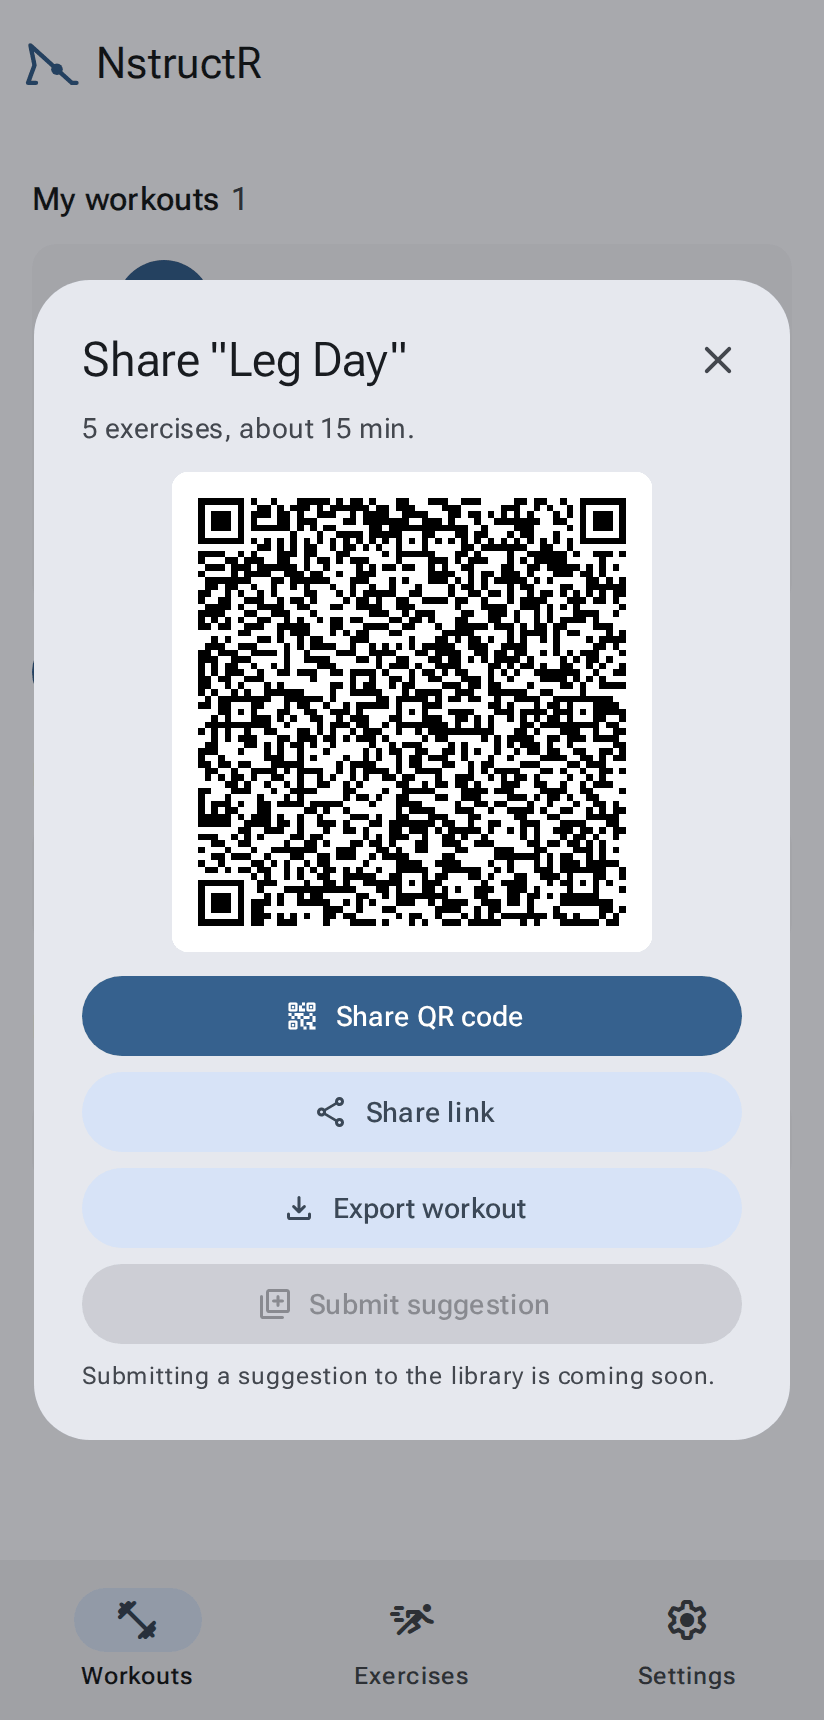
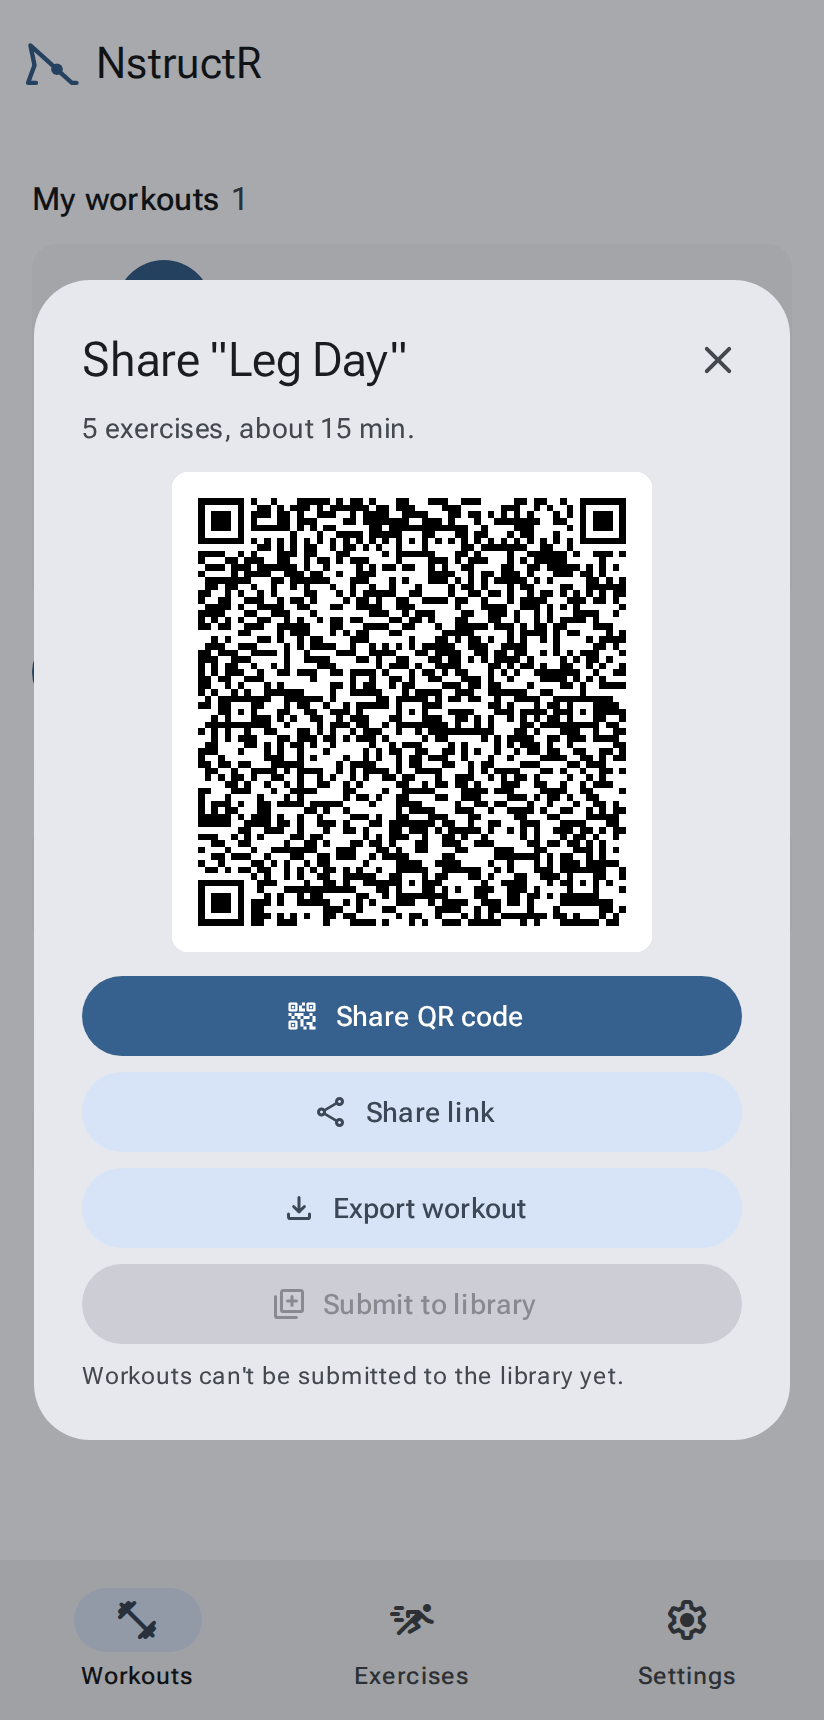
Submissions: docs, wiki, screenshots, audit; no name another library exercise has
- the app doesn't offer a name that belongs to another library exercise (the Action rejects it too)
- HANDOFF §8.8 (similarity, the app, the Action), formats (otherNames, collections), roadmap; README, CLAUDE.md
- wiki: Submit to library (Sharing), other names (Editing); new submit.png, retaken share.png
- audit: the Submit dialog; a radio button in a 48 px label row counts as a big enough target

Claude-Session: https://claude.ai/code/session_0133kyx5MPf8aRU2sQwm2BG7

Changed region(s): [[0.2731, 0.7395, 0.6675, 0.832]]

diff --git a/src/app/5-submit.js b/src/app/5-submit.js
@@ -18,23 +18,25 @@ const exBody = e => canonical({ ...e, id: 0, name: 0, basedOn: 0, collections: 0
 function submissionPlan(ex) {
   const name = baseName(ex.name), base = ex.basedOn && findInDb(ex.basedOn);
   if (findInDb(ex.id) && canonical(findInDb(ex.id)) === canonical(ex)) return { intro: '<p>This is the library\'s own exercise.</p>', choices: [], matches: [] };
+  const owner = POSE_DB.exercises.find(x => hasName(x, name));     // a name belongs to one library exercise
   if (base && exBody(ex) === exBody(base)) {
+    if (owner && owner !== base) return { intro: `<p>“${esc(name)}” is already the name of “${esc(owner.name)}” in the library. Give yours another name, or change it first.</p>`, choices: [], matches: [] };
     if (hasName(base, name)) return { intro: `<p>This is the same as “${esc(base.name)}” in the library. Change it first, then submit your change.</p>`, choices: [], matches: [] };
     return { intro: `<p>Only the name is different from “${esc(base.name)}”, so it's suggested as another name for it.</p>`,
       choices: [{ kind: 'name', target: base.id, label: `“${name}” as another name for “${base.name}”` }], matches: [] };
   }
   const matches = SIMILAR_EX.similarTo(ex, POSE_DB.exercises, LIB_PRINTS).slice(0, 4);
-  const dup = matches.find(m => m.verdict === 'duplicate'), clash = matches.find(m => hasName(findInDb(m.id), name));
+  const dup = matches.find(m => m.verdict === 'duplicate');
   const choices = [], after = [];
   if (base) choices.push({ kind: 'update', target: base.id, label: `Changes to “${base.name}”` });
   if (dup && dup.id !== (base && base.id)) {
     const d = findInDb(dup.id);
-    if (!hasName(d, name)) choices.push({ kind: 'name', target: d.id, label: `“${name}” as another name for “${d.name}”` });
+    if (!owner) choices.push({ kind: 'name', target: d.id, label: `“${name}” as another name for “${d.name}”` });
     choices.push({ kind: 'update', target: d.id, label: `Changes to “${d.name}”` });
   }
   // a new exercise can't be a duplicate, or share a name with one in the library
   if (dup) after.push('To submit it as a new exercise, it needs what sets it apart: its equipment (Edit → Equipment), or held instead of repeated.');
-  else if (clash) after.push(`To submit it as a new exercise, give it a name of its own: “${name}” is already in the library.`);
+  else if (owner) after.push(`To submit it as a new exercise, give it a name of its own: “${name}” is already in the library.`);
   else choices.push({ kind: 'new', label: base ? 'A new exercise (it\'s different from the original)' : 'A new exercise' });
   const why = m => ({
     duplicate: `moves the same as <b>${esc(m.name)}</b>, with the same equipment`,

diff --git a/tools/audit.py b/tools/audit.py
@@ -25,7 +25,8 @@ EXTRA = r"""(() => {
     if (a.content !== 'none' && a.position === 'absolute') r = { width: Math.max(r0.width, parseFloat(a.width) || 0, parseFloat(a.minWidth) || 0), height: Math.max(r0.height, parseFloat(a.height) || 0) };
     const clip = [...(function* (n) { while ((n = n.parentElement)) yield n; })(el)].find(n => getComputedStyle(n).overflowY !== 'visible');
     if (clip && clip !== document.body && clip !== document.documentElement && !clip.matches('dialog, .ai-body, .pick-list, main, .view')) { const c = clip.getBoundingClientRect(); r = { width: Math.min(r.width, c.width), height: Math.min(r.height, c.height) }; }
-    if (el.type === 'checkbox' || el.matches('input[type=search], textarea')) continue;
+    // a checkbox, or a radio button in its label: the whole row (the label, 48 px tall) is the target
+    if (el.type === 'checkbox' || (el.type === 'radio' && el.closest('label')) || el.matches('input[type=search], textarea')) continue;
     // an inline link in a sentence is exempt (WCAG 2.5.8); M3 asks 48 x 48 for everything else
     if ((Math.round(r.width) < 48 || Math.round(r.height) < 48) && !(el.tagName === 'A' && getComputedStyle(el).display === 'inline')) {
       const k = 'target ' + sel(el); if (!seen.has(k)) { seen.add(k); out.push({kind: 'small target', el: sel(el), size: `${Math.round(r.width)}x${Math.round(r.height)}`, text: (el.textContent || el.getAttribute('aria-label') || '').trim().slice(0, 30)}); }
@@ -76,6 +77,7 @@ async def screens(b, theme, results):
     await pg.evaluate("go('#/settings')"); await audit(pg, T('Settings'), results)
     await pg.evaluate("openAi()"); await audit(pg, T('Create with AI'), results); await pg.evaluate("$('#aiDialog').close()")
     await pg.evaluate("go('#/workouts')"); await pg.click('[data-share-wk="a"]'); await audit(pg, T('Share'), results); await pg.evaluate("$('#shareDialog').close()")
+    await pg.evaluate("S.lib.items.push({...clone(findInDb('bw-squat')), id:'u-audit', name:'Air Squat'}); openSubmit(exById('u-audit'))"); await audit(pg, T('Submit to library'), results); await pg.evaluate("$('#submitDialog').close()")
     await ctx.close()
     # the cover screen
     ctx = await b.new_context(viewport={'width': 360, 'height': 398}, has_touch=True)

diff --git a/tools/e2e/submit_exercise.py b/tools/e2e/submit_exercise.py
@@ -8,6 +8,7 @@ from playwright.async_api import async_playwright
 SETUP = """(()=>{ const sq = findInDb('bw-squat');
   const put = x => { S.lib.items = S.lib.items.filter(i => i.id !== x.id); S.lib.items.push(x); };
   put({ ...clone(sq), id: 'u-renamed', name: 'Air Squat', basedOn: 'bw-squat' });
+  put({ ...clone(sq), id: 'u-taken', name: 'Sit to Stand', basedOn: 'bw-squat' });
   put({ ...clone(sq), id: 'u-same', name: sq.name + ' (copy)', basedOn: 'bw-squat' });
   put({ ...clone(sq), id: 'u-changed', name: sq.name + ' (copy)', basedOn: 'bw-squat', cues: ['Sit back.', 'Chest up.'] });
   put({ ...clone(sq), id: 'u-dup', name: 'Chair Squat Thing', collections: undefined });
@@ -38,6 +39,7 @@ async def main():
         # the exercise link inside decodes back to the exercise
         back = await pg.evaluate(f"unpackLink({json.dumps(q['exercise'][0].split('#/link/')[1])}).then(r => [r.kind, r.data.exercises[0].name, r.data.exercises[0].basedOn])")
         print('  decodes to', back)
+        await plan('u-taken'); await pg.click('#submitDialog [data-close]')
         await plan('u-same'); await pg.click('#submitDialog [data-close]')
         await plan('u-changed'); await pg.click('#submitDialog [data-close]')
         await plan('u-dup')

diff --git a/tools/wiki_screenshots.py b/tools/wiki_screenshots.py
@@ -110,6 +110,10 @@ async def main():
         await pg.click('[data-share-wk="legs"]'); await pg.wait_for_timeout(500); await shot(pg, 'share')
         await pg.evaluate("$('#shareDialog').close()")
         link = await pg.evaluate("SHARING.url")
+        # Submit to library: an own exercise that moves the same as a library one
+        await pg.evaluate("S.lib.items.push({...clone(findInDb('bw-squat')), id:'u-chair-squat', name:'Air Squat'}); saveLib(); go('#/play/u-chair-squat')")
+        await pg.wait_for_timeout(500); await pg.click('#shareExBtn'); await pg.click('#shareSubmit'); await shot(pg, 'submit')
+        await pg.evaluate("$('#submitDialog').close(); S.lib.items = S.lib.items.filter(x => x.id !== 'u-chair-squat'); saveLib(); go('#/workouts')")
         # the other phone opens the link
         pg2 = await page(b, 412, 860)
         await pg2.goto(link.replace('#', '?r#'), wait_until='domcontentloaded'); await pg2.wait_for_timeout(1200)

diff --git a/HANDOFF.md b/HANDOFF.md
@@ -195,8 +195,9 @@ The schemas in `schema/` are authoritative for structure. This section is the me
 {
   "$schema": "../../schema/exercise.schema.json", "version": 2,
   "id": "bw-reverse-lunge",            // kebab-case, = file name; users' own start with "u-"
-  "name": "Reverse Lunge", "sanskrit": "…",
-  "library": "Bodyweight",             // collection on the Explore tab
+  "name": "Reverse Lunge",
+  "otherNames": ["…"],                 // other names it's known by (Sanskrit, other languages); the first is shown under the name
+  "collections": ["Bodyweight"],       // library only: where the Exercises tab shows it (can be several); users' own have none
   "category": "Strength", "focus": "Thighs and glutes",
   "equipment": ["Wall"],               // free text, used for filters and the "You'll need" list
   "description": "…", "setup": ["…"], "cues": ["…"],   // cues[0] is also spoken by Coach
@@ -287,7 +288,8 @@ used: an exercise is `time` if its longest `holdMs` ≥ 3000, except where the h
   is ≤ 900 characters (`src/vendor/qrcode.js`, qrcode-generator, MIT, vendored), then four equal buttons: **Share QR
   code** (filled = recommended; disabled without a QR code), **Share link** (tonal; filled when there's no QR code;
   the phone's share sheet, or copies the link where there's none), **Export workout/exercise** (a `.json` file),
-  **Submit suggestion** (disabled until submissions exist, step 8). No link field or Copy link since Sep 2026. Share
+  **Submit to library** (exercises that aren't the library's own; disabled for workouts, which can't be submitted
+  yet; see §8.8). No link field or Copy link since Sep 2026. Share
   buttons: workout editor, each workout card, the exercise page's top bar and About. `<site>` is the page's own
   address, or `https://sanicki.github.io/nstructr/` when opened from a file. Typical sizes: library workout
   62 chars; the 24-item routine customised ≈ 770; a workout with one own exercise ≈ 1200 (no QR).
@@ -500,6 +502,35 @@ steps or the joint will windmill; the jump check will catch it.
 - Maskable icons were made from the 1024 px artwork at 80% on the navy background (the supplied
   `adaptive-foreground.png` put a navy square on transparency, which shows as a square in a white circle).
 
+### 8.8 Submissions (exercises)
+Owner's requirements: submitting is a **deliberate action** on one thing the user picks, never automatic; the library
+must not fill with **duplicates**, and a known exercise under another name should become **another name for it**
+("other names"), not a new exercise. Checking that by hand doesn't scale, so it's automatic, twice:
+- **Similarity** (`src/similar.js`, shared by the app, the build and the Action): each non-quiet step's resolved
+  joint angles (first side, direction A), steps aligned by dynamic time warping, root-mean-square angle difference in
+  degrees. Library pairs that move the same are ≤ 0.6° apart and the next closest ≥ 1.6° (Sep 2026): **same < 1°**,
+  **similar < 2.5°**. Names are compared without case, accents, punctuation, plurals, word order and filler words
+  ("pose", "the"…). Equipment (mat and floor don't count) and measure (reps / time) separate **variants** from
+  **duplicates**: same motion + same equipment + same measure = duplicate. The build fails on a duplicate pair
+  (today: none; 5 variant pairs such as Glute Bridge (reps) / Bridge Pose (held), band / barbell overhead press).
+- **In the app** (Share → Submit to library, `src/app/5-submit.js`): a copy of a library exercise (`basedOn`) that
+  only has a new name → "another name for X"; a changed copy → "changes to X" (or new, when it no longer duplicates
+  X and has its own name); anything else is compared with the library: a duplicate can only be "another name for X"
+  or "changes to X"; a name the library has must be changed first. It opens a prefilled issue form
+  (`.github/ISSUE_TEMPLATE/exercise.yml`: kind, target, note, the exercise as a share link, and a required
+  own-words + MIT checkbox); over 8000 characters the link is copied to paste in instead.
+- **On GitHub** (`.github/workflows/submission.yml` → `tools/submission.mjs`): the issue is read only as data (a
+  file, never the shell). `name` adds to the target's `otherNames`; `update` replaces the target but keeps its id,
+  name (a new name becomes another name) and collections; `new` gets an id from its name and collections from the
+  closest library exercise with the same equipment, else from its equipment. Then the build's gates (schema,
+  animation checks, range of motion, duplicates, a name another exercise has) and `build.mjs --check-only` on the
+  whole library. Result: a comment on the issue, and on success a pull request from `submission/issue-<n>`
+  ("Closes #n"; editing the issue re-runs it and force-pushes that branch). A pull request opened with the workflow's
+  token doesn't start other workflows, which is why the check runs inside it. One-time setup: Settings → Actions →
+  General → "Allow GitHub Actions to create and approve pull requests".
+- Not merged: Glute Bridge and Bridge Pose move the same, but one counts reps and the other is a hold, and an
+  exercise has one `measure`. Merging them needs workouts to be able to hold a rep exercise (or the reverse).
+
 ## 9. Things not visible in the code
 
 - **Flip phone cover screen** (reference: Galaxy Z Flip7): ~360×398 CSS px (948×1048 physical). Camera cutouts and flash along the **bottom**.
@@ -699,16 +730,8 @@ The mixed prefixes are historical; renaming them would silently wipe users' data
    - keep flaky, network-dependent checks (source links) manual; decide whether `tools/perf.py` gets a budget (CI
      machines vary) or stays informational;
    - when picked up again: ideally before submissions grow, so contributions are checked end to end.
-8. **Submission pipeline**: in-app "Submit to NstructR" → prefilled GitHub **issue form** (`.github/ISSUE_TEMPLATE`
-   forms YAML; if the JSON is too long for the URL, copy to clipboard and ask to paste) → an Action validates
-   with `tools/build.mjs` logic, renders a preview (headless browser → GIF/PNG), comments, and opens a PR. Prompt
-   and form require original wording + source link + license checkbox.
-   **The `library` field** (which collection an exercise belongs to: "Bodyweight", "Yoga"…) matters for
-   exercises accepted into the library: the submission form (or review) must set it; users' own exercises don't
-   need it (they live under My Exercises).
-   **Owner's requirement:** editing exercises and workouts in the app is easy on purpose, so submitting must be a
-   **deliberate, user-triggered action** on something the user chooses (e.g. "Submit this exercise"), ideally
-   batching several items into one submission — never a PR per edit or anything automatic.
+8. **Submission pipeline** — **exercises done** (Sep 2026, §8.8); **workouts later** (owner: exercises first). For
+   workouts: the same issue form with a workout link, each of its own exercises going through the exercise rules.
 9. **Content**: exercise machines (cable stations first — a fixed anchor + rigid cable, close to bands; then
    leg press, lat pulldown; then cardio machines). Two small open choices in §14.
 10. **Experiments**: Flex mode layout (viewport segments; figure on the top half), voice commands (optional;

diff --git a/CLAUDE.md b/CLAUDE.md
@@ -15,6 +15,7 @@ The user guide is `wiki/*.md` (screenshots: `tools/wiki_screenshots.py` → `wik
 - Poses are 3D joint angles (format v2): ball joints `[forward, side, turn]`, hinges one number; signs follow the body, not the screen (HANDOFF §4). Angle values like `540` or `-235` are deliberate (they choose the direction a joint turns). Keep continuity with neighbouring steps.
 - Only format v2 is read and written; `tools/format-json.cjs` lays library files out (one line per joint).
 - `durationMs: 0` means instant, not "unset".
+- No duplicates: the build fails on two exercises that move the same with the same equipment and measure; another name for a known exercise goes in its `otherNames`. `collections` (library only) can list several.
 - Write bilateral exercises for one side; the other is mirrored (names/cues/guide labels have left/right swapped automatically).
 - Exercise text: our own words, cite the source, never copy. Spoken cues: short, plain directions.
 - Workout player targets the **cover screen of foldable flip phones, on the floor**: nothing important at the bottom (camera cutouts), first tap only shows controls, hold ✕ to exit, test at 360×398.
@@ -26,4 +27,4 @@ The user guide is `wiki/*.md` (screenshots: `tools/wiki_screenshots.py` → `wik
 - Don't run `pkill -f http.server` from a shell whose command line contains that text (it kills itself).
 
 ## Where things are
-Engine (3D, format v2): `src/core.js` · Range of motion: `tools/rom.cjs` · Any exercise from any camera: `tools/viewer3d.html` · App: `src/app/1-engine.js` (state, drawing, playback) · `2-explore.js` (Exercises tab) · `3-details.js` (exercise page info, overlay, Edit, its sound, Settings) · `5-main.js` (routing, boot) · `5-ai.js` (Create with AI) · `5-share.js` (share links, QR) · `6-pwa.js` (service worker, backup; calls `boot()`) · PWA: `manifest.webmanifest`, `icons/`, `src/sw.js` (template; the build writes `_site/sw.js`) · Workouts & player: `src/app/4-workouts.js` · CSS: `src/head.html` · Markup: `src/body.html`
+Engine (3D, format v2): `src/core.js` · Range of motion: `tools/rom.cjs` · Similarity / duplicates: `src/similar.js` · Submissions (GitHub side): `tools/submission.mjs`, `.github/workflows/submission.yml`, `.github/ISSUE_TEMPLATE/exercise.yml` · Any exercise from any camera: `tools/viewer3d.html` · App: `src/app/1-engine.js` (state, drawing, playback) · `2-explore.js` (Exercises tab) · `3-details.js` (exercise page info, overlay, Edit, its sound, Settings) · `5-main.js` (routing, boot) · `5-ai.js` (Create with AI) · `5-share.js` (share links, QR) · `5-submit.js` (Submit to library) · `6-pwa.js` (service worker, backup; calls `boot()`) · PWA: `manifest.webmanifest`, `icons/`, `src/sw.js` (template; the build writes `_site/sw.js`) · Workouts & player: `src/app/4-workouts.js` · CSS: `src/head.html` · Markup: `src/body.html`

diff --git a/wiki/Sharing-and-backups.md b/wiki/Sharing-and-backups.md
@@ -7,16 +7,41 @@
 **Share** on one of your workouts (or on one of your own exercises) makes a link that **carries the whole thing
 inside it**: no account and no server. Send it any way you like, or let someone scan the QR code.
 
-<img src="images/share.png" width="300" alt="The Share dialog: QR code, Share QR code, Share link, Export, Submit suggestion">
+<img src="images/share.png" width="300" alt="The Share dialog: QR code, Share QR code, Share link, Export, Submit to library">
 
 - **Share QR code** (recommended): the QR code as a picture, for the other person to scan. Very long links get no
   QR code; then **Share link** is the one to use.
 - **Share link**: your phone's share sheet (on a computer, the link is copied).
 - **Export workout** / **Export exercise**: a small `.json` file instead.
-- **Submit suggestion**: sending it for the library. Coming soon.
+- **Submit to library**: suggest your exercise, or your change to a library exercise, for everyone. See
+  [below](#submit-an-exercise-to-the-library). (Workouts can't be submitted yet.)
 - Close with ✕, Esc, or your phone's Back.
 
 Library workouts and exercises don't need sharing: everyone has them. Send the page's address instead.
+
+## Submit an exercise to the library
+
+Made an exercise the library doesn't have, fixed one, or know another name for one? Open it, tap **Share**, then
+**Submit to library**. You need a (free) GitHub account: the app fills in a form there for you.
+
+<img src="images/submit.png" width="300" alt="Submit to the library: it moves the same as a library exercise, so it can be another name for it or changes to it">
+
+The app first compares it with the library, so the library doesn't end up with the same exercise twice:
+
+- **Only the name is different** from the library exercise you copied: it's suggested as **another name** for it
+  (other names show under the name, and search finds them).
+- **You changed a library exercise**: it's suggested as **changes to** that exercise.
+- **It moves the same as one in the library, with the same equipment**: it can be another name for that one, or
+  changes to it. To send it as a new exercise, give it what sets it apart first: its equipment (Edit → Equipment),
+  or held instead of repeated.
+- **A library exercise already has its name**: rename yours first.
+- Otherwise: **a new exercise**.
+
+Add a note for the reviewer if you like, then **Continue on GitHub**, tick the box (your own words, sources cited,
+shared under the MIT license) and submit. Within a few minutes a check comments on it: the same checks every
+library exercise passes (the figure doesn't float or sink, every pose is one a body can do, no duplicates). If it
+passes, it waits for review; if not, the comment says what to fix. Write in your own words and add a source link
+(Edit → Source link).
 
 ## Receiving
 

diff --git a/README.md b/README.md
@@ -13,6 +13,8 @@ workouts, the workout player on the cover screen, Create with AI, editing exerci
 settings, and troubleshooting.
 
 Found an exercise that looks wrong, or have an idea? [Open an issue](https://github.com/sanicki/nstructr/issues).
+Made an exercise, or improved one? Submit it from the app: **Share → Submit to library**
+([how](wiki/Sharing-and-backups.md#submit-an-exercise-to-the-library)). It's checked automatically, then reviewed.
 
 ## For developers
 
@@ -36,7 +38,9 @@ the UI. The build deletes and recreates `_site/`, so restart the server after ea
    - Exercises and workouts are `library/exercises/<id>.json` and `library/workouts/<id>.json`; the file name is the
      `id`, and library ids never start with `u-`.
    - Every exercise must pass the animation checks for every side and direction: fix the poses rather than adding
-     an exception to `tools/known-issues.json`.
+     an exception to `tools/known-issues.json`. Every pose must be one a flexible body can do (`tools/rom.cjs`), and
+     no two exercises may move the same with the same equipment and measure (`src/similar.js`): a known exercise
+     under another name goes in its `otherNames`.
    - Exercise text is in your own words, with the source cited. Spoken cues are short, plain directions.
    - Don't rename `localStorage` keys without a migration.
 3. Run `node tools/build.mjs` and make sure it passes.

diff --git a/wiki/Editing-exercises.md b/wiki/Editing-exercises.md
@@ -9,14 +9,15 @@ you edit, and **Done** closes the editor.
 
 ## Changing the words (everyone)
 
-- **Name, description and instructions**: the name, other name, focus, category, equipment, description,
+- **Name, description and instructions**: the name, other names (separated by commas), focus, category, equipment, description,
   setup, form cues, suggested reps, note, what a rep is called, side and direction names, and source.
 - **Each step**: its name and the **spoken cue** (the line read out in Voice and Coach modes). Use ‹ › to move
   between steps.
 - Write steps for the first side only; the other side swaps left and right for you.
 
 **Library exercises stay as they are.** Your first real change makes your own copy, "Name (copy)", in
-**My exercises**, and you edit that. Your own exercises are edited in place. Everything saves as you go.
+**My exercises**, and you edit that. Your own exercises are edited in place. Everything saves as you go. To
+suggest your change for everyone's library: **Share → Submit to library** ([how](Sharing-and-backups.md#submit-an-exercise-to-the-library)).
 
 - **Revert this step** undoes your changes to the current step.
 - **Discard all changes** goes back to how the exercise was when you started editing (and removes the copy if
